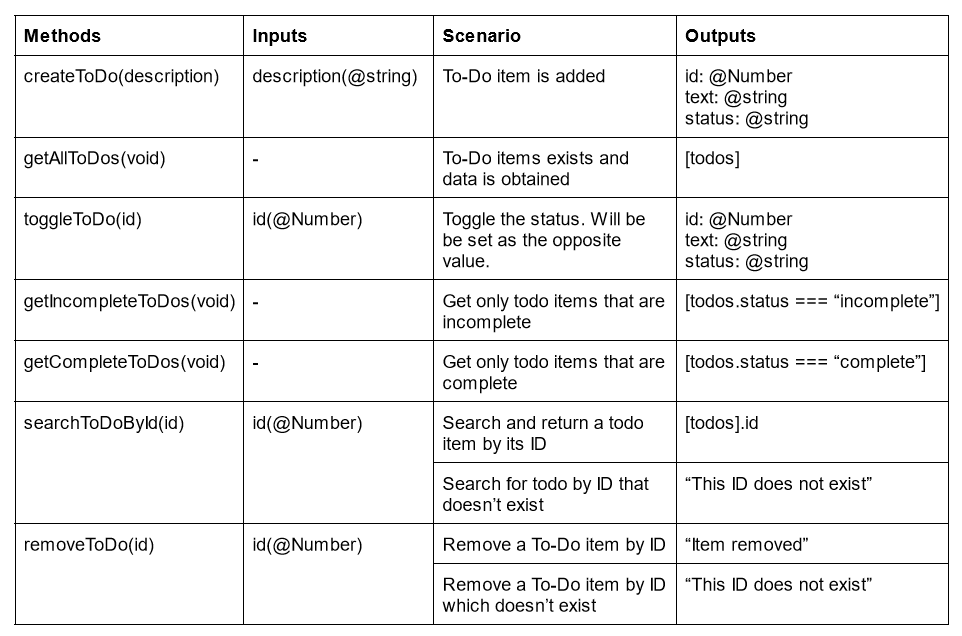
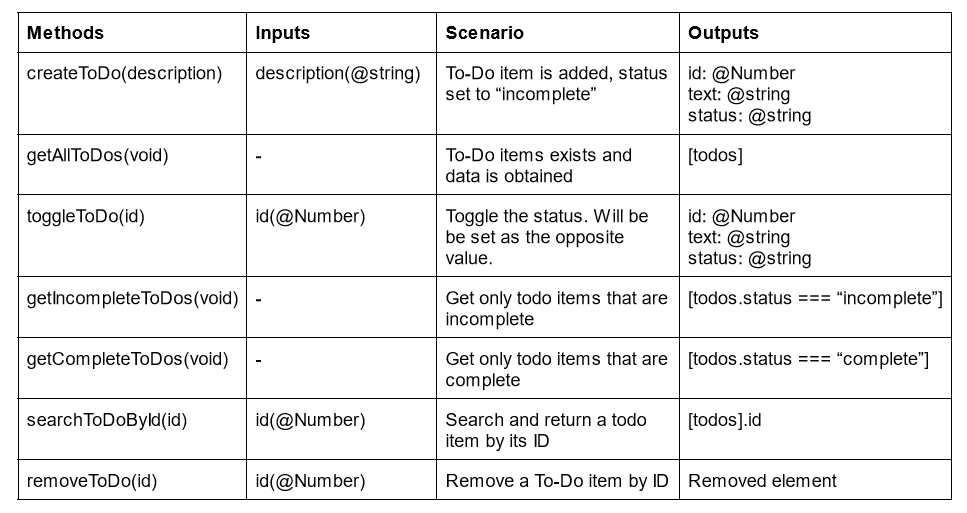
Add in source code for removeToDo & test passing

Changed region(s): [[0.0, 0.0312, 0.9979, 0.9981]]

diff --git a/src/todolist.js b/src/todolist.js
@@ -45,7 +45,10 @@ function searchToDoById(id) {
   return toDos.find((toDo) => toDo.id === id)
 }
 
-function removeToDo(id) {}
+function removeToDo(id) {
+  const foundToDo = searchToDoById(id)
+  return toDos.splice(toDos.indexOf(foundToDo), 1)
+}
 
 module.exports = {
   createToDo,
